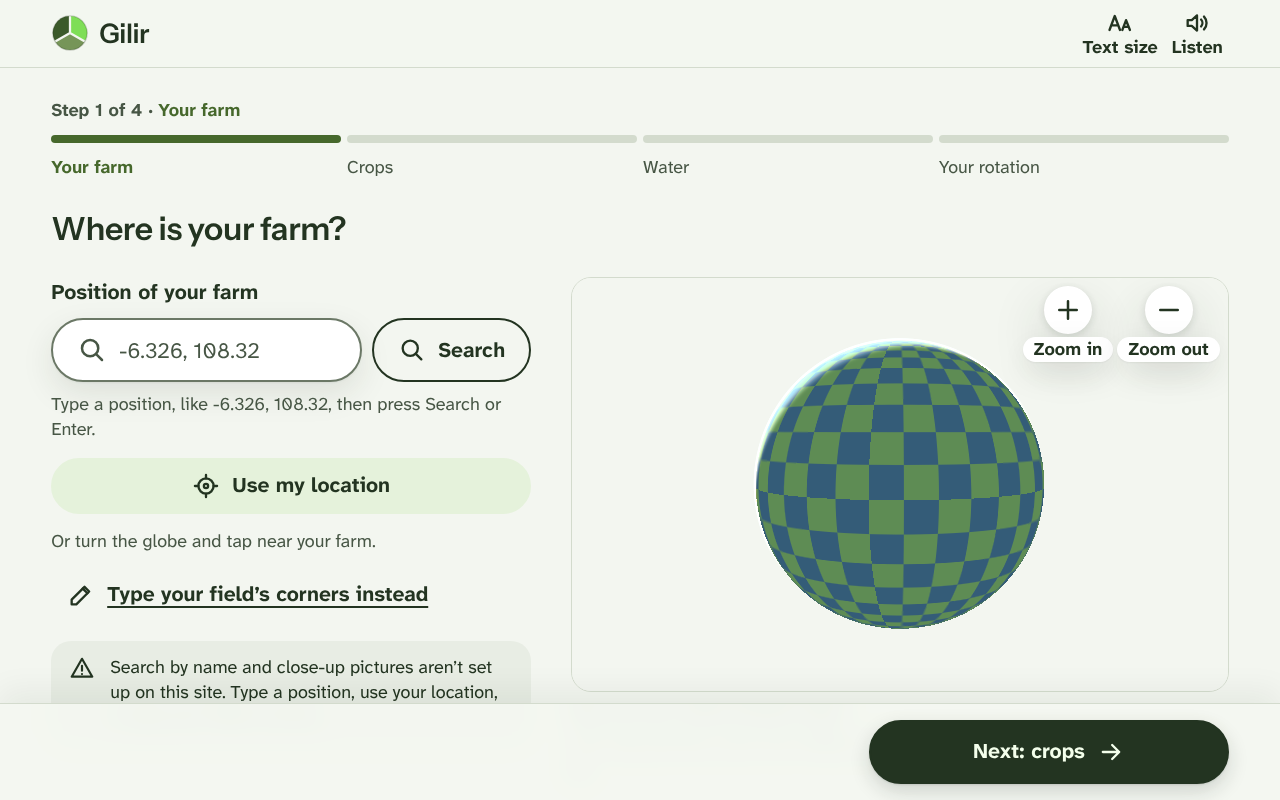
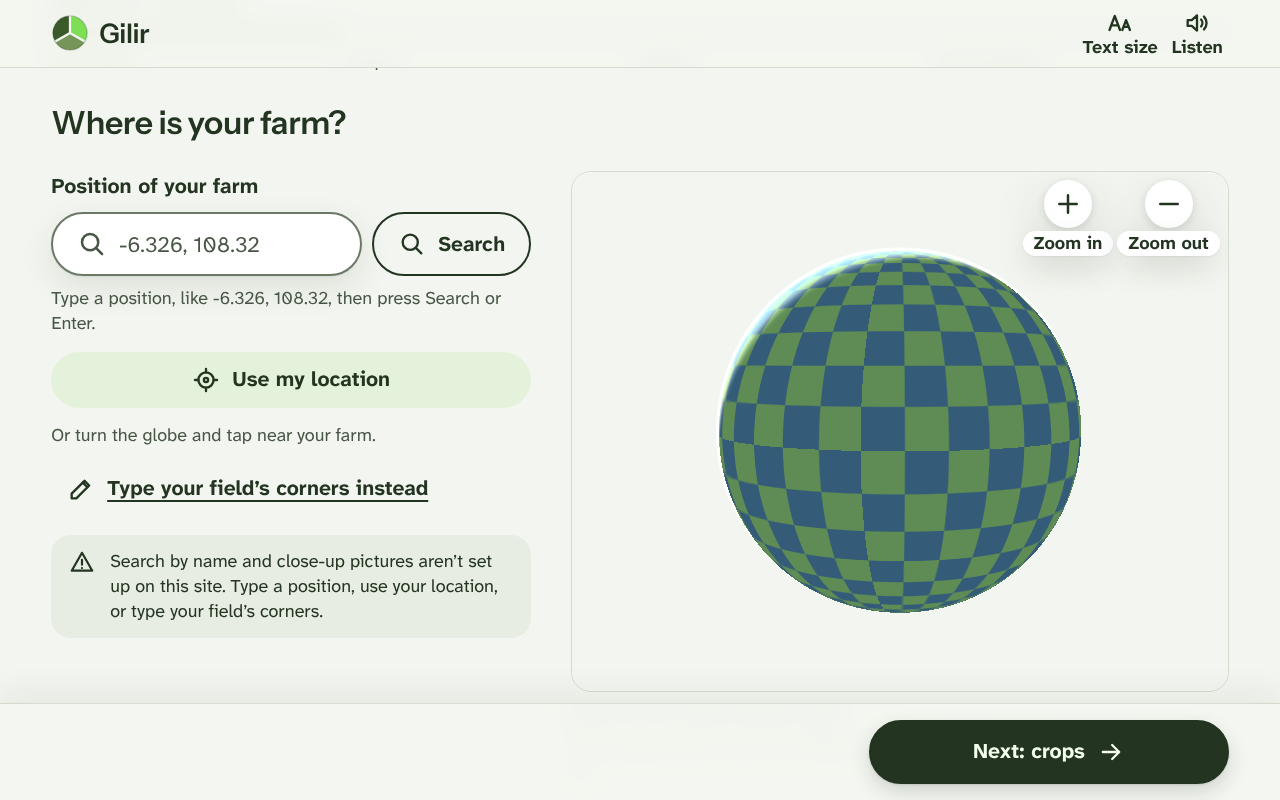
test(F2): re-take the browser evidence after the third review round
The lab and no-WebGL runs now pass 63 cases and the provider run 17.
The new cases cover a phone on its side and a 320x568 phone, a short
two-column window with and without a key, NASA's pictures failing
under working close-ups, and pictures failing after a restored WebGL
context.

Seven screenshots changed because the map's height changed: the
two-column globe and drawing at 1280 px now fill the band above their
credits, and at Largest text on a 360 px phone the map is taller with
a 52 px strip of page below it. The refused-key screenshot was taken
again from its rewritten case. The README gives the new counts, says
what the pictures notice now does, and records how small the map is
on a phone on its side at Largest text.

Claude-Session: https://claude.ai/code/session_01DwR15oMch4WdwGA24XzcK2

diff --git a/docs/evidence/F2/README.md b/docs/evidence/F2/README.md
@@ -43,18 +43,18 @@ Each command ran from the repository root on 15 November 2026, with Node 24 firs
 
 | Key | Command | Observed | Kind |
 | --- | --- | --- | --- |
-| Pl, Pn | `env -u CLAUDECODE -u AI_AGENT -u NEXT_PUBLIC_MAPTILER_KEY PW_CHROMIUM=/opt/pw-browsers/chromium npx playwright test tests/frontend/location/lab.spec.ts tests/frontend/location/no-webgl.spec.ts` | 56 passed in 10.9 minutes. The three strip cases were rerun after they gained a wait for the camera: 3 passed ([fixture-runs.log](fixture-runs.log)) | fixture evidence |
-| Pm | `NEXT_PUBLIC_MAPTILER_KEY=pw-dummy-key env -u CLAUDECODE -u AI_AGENT PW_CHROMIUM=/opt/pw-browsers/chromium npx playwright test tests/frontend/location/provider.spec.ts` | 12 passed in 2.5 minutes ([mocked-runs.log](mocked-runs.log)) | mocked evidence |
+| Pl, Pn | `env -u CLAUDECODE -u AI_AGENT -u NEXT_PUBLIC_MAPTILER_KEY PW_CHROMIUM=/opt/pw-browsers/chromium npx playwright test tests/frontend/location/lab.spec.ts tests/frontend/location/no-webgl.spec.ts` | 63 passed in 10.0 minutes ([fixture-runs.log](fixture-runs.log)) | fixture evidence |
+| Pm | `NEXT_PUBLIC_MAPTILER_KEY=pw-dummy-key env -u CLAUDECODE -u AI_AGENT PW_CHROMIUM=/opt/pw-browsers/chromium npx playwright test tests/frontend/location/provider.spec.ts` | 17 passed in 3.0 minutes ([mocked-runs.log](mocked-runs.log)) | mocked evidence |
 | PL | `env -u CLAUDECODE -u AI_AGENT -u NEXT_PUBLIC_MAPTILER_KEY PW_CHROMIUM=/opt/pw-browsers/chromium npx playwright test tests/frontend/location/live.spec.ts` | 17 skipped, each with the reason "BLOCKED: needs NEXT_PUBLIC_MAPTILER_KEY and network access to api.maptiler.com and gibs.earthdata.nasa.gov" ([live-blocked.log](live-blocked.log)) | **BLOCKED** |
-| V | `npx vitest run tests/frontend/location` | 10 files passed, 272 tests passed, none left as todo. The same with `env -u NEXT_PUBLIC_MAPTILER_KEY`. | component tests |
-| C | `env -u CLAUDECODE -u AI_AGENT npm run check` | exit 0. 71 files passed and 5 skipped. 1,199 tests passed and 29 skipped, none of them in tests/frontend/location. Module boundaries passed. | repository check |
+| V | `npx vitest run tests/frontend/location` | 10 files passed, 274 tests passed, none left as todo. The same with `env -u NEXT_PUBLIC_MAPTILER_KEY`. | component tests |
+| C | `env -u CLAUDECODE -u AI_AGENT npm run check` | exit 0. 71 files passed and 5 skipped. 1,201 tests passed and 29 skipped, none of them in tests/frontend/location. Module boundaries passed. | repository check |
 | B | `env -u CLAUDECODE -u AI_AGENT npm run build` | exit 0. `/` and `/dev/fixtures` prerendered, and the MapLibre worker file was emitted. | production build |
 
 The lab and no-WebGL files skip themselves when a key is set, and the provider file skips unless the key is `pw-dummy-key`. So the fixture runs and the mocked run each need their own dev server.
 
 ## Screenshots
 
-Each screenshot is the viewport at the stated width, with the part under test scrolled into view. Next's development badge is hidden. The tests write them to the Playwright output folder, and they were then copied here. They come from the runs in the logs above, and page-one-largest-marked-360.png from the rerun of the strip cases. A new file inside the project makes `next dev` rebuild and refresh every open page, so the tests never write into this folder while they run. Playwright empties its output folder at the start of each run, so this copy step ran after each one:
+Each screenshot is the viewport at the stated width, with the part under test scrolled into view. Next's development badge is hidden. The tests write them to the Playwright output folder, and they were then copied here. They come from the runs in the logs above. A new file inside the project makes `next dev` rebuild and refresh every open page, so the tests never write into this folder while they run. Playwright empties its output folder at the start of each run, so this copy step ran after each one:
 
 ```sh
 for name in globe-360 globe-1280 lab-normal-360 lab-concave-1280 lab-dateline-360 lab-dateline-1280 page-one-360 \
@@ -80,11 +80,11 @@ done
 | [no-webgl-dateline-360.png](no-webgl-dateline-360.png) | 360x740 | no-webgl [R14][R12][R11] | fixture | WebGL off. The Fiji field typed with the keyboard alone, drawn as one rectangle. |
 | [no-webgl-largest-text-360.png](no-webgl-largest-text-360.png) | 360x740 | no-webgl [R22] | fixture | WebGL off, on F1's page 1 at F1's Largest text. The drawing fits with no sideways scroll. |
 | [page-one-search-answer-largest-360.png](page-one-search-answer-largest-360.png) | 360x740 | lab [R16][R22] answer in view | fixture | Largest text, no key. "-6.326, 200" searched: "Longitude goes from -180 to 180." sits above F1's dock, and the box shows the whole typed position. |
-| [page-one-largest-marked-360.png](page-one-largest-marked-360.png) | 360x740 | lab [R22] strip | fixture | Largest text, a box marked and the map at the top. A strip of page stays between the map and F1's dock, and a swipe there scrolls the page. |
-| [page-one-typing-1280.png](page-one-typing-1280.png), [no-webgl-typing-1280.png](no-webgl-typing-1280.png) | 1280x800 | lab and no-webgl [R22] two columns | fixture | Corner 3's latitude being typed. The globe, and with WebGL off the drawing, stay in view on the right. The drawing has no map picture credit. |
+| [page-one-largest-marked-360.png](page-one-largest-marked-360.png) | 360x740 | lab [R22] strip | fixture | Largest text, a box marked and the map at the top. A strip of page about 52 px tall stays between the map and F1's dock, and a swipe there scrolls the page. |
+| [page-one-typing-1280.png](page-one-typing-1280.png), [no-webgl-typing-1280.png](no-webgl-typing-1280.png) | 1280x800 | lab and no-webgl [R22] two columns | fixture | Corner 3's latitude being typed. The globe with its credit and privacy lines, and with WebGL off the drawing, stay in view on the right above F1's dock. The drawing has no map picture credit. |
 | [provider-indramayu-box-360.png](provider-indramayu-box-360.png) | 360x740 | provider [R3] | mocked | A canned "Indramayu" answer chosen and "Mark my field" pressed. A 1 hectare box over the synthetic MapTiler tiles. |
 | [provider-credits-360.png](provider-credits-360.png) | 360x740 | provider [R5] | mocked | The credits line names NASA EOSDIS GIBS, © MapTiler and © OpenStreetMap contributors, without a press. |
-| [provider-close-ups-refused-360.png](provider-close-ups-refused-360.png) | 360x740 | provider [R16] refused key | mocked | NASA's pictures answer and MapTiler's are refused, as with a bad key. After a field is marked from the world view, "The map pictures didn’t load. …" still shows. |
+| [provider-close-ups-refused-360.png](provider-close-ups-refused-360.png) | 360x740 | provider [R16] refused key | mocked | NASA's pictures answer and MapTiler's are refused, as with a bad key. The world view showed NASA's pictures with no notice. On the field marked from there, "The map pictures didn’t load. …" shows. |
 
 No trace, video or HAR file is kept. No file here holds a key. The only key in any of these files is the dummy `pw-dummy-key`, in one test name in mocked-runs.log.
 
@@ -100,8 +100,8 @@ No trace, video or HAR file is kept. No file here holds a key. The only key in a
 These cases support the live criterion but never pass it, as the card says.
 
 - **Fixture.** lab [R3] turns the globe by dragging, and zooms by mouse and by keyboard, over the synthetic tiles. Another lab [R3] case clicks in space beside the sphere: no place is chosen and a marked box stays put, while a click on the sphere still does both. lab [R22] checks that each next step is in view on F1's page 1, and that at Large and Largest text the map stays at least 480 px wide with no corner handle under a zoom button. lab [R7] and [R7][R12] drag corners, add a corner and make a concave field. lab [R7] puts back a corner dragged across a side. lab [R15][R22] edits a corner with Tab alone. no-webgl shows the drawing, its explanation and the corner list.
-- **Fixture, from the review's fixes.** lab [R14] keeps the globe when MapLibre restarts its busy workers on a return to the foreground, and when a lost WebGL context comes back. A context that stays lost becomes the drawing after a short wait, and focus on "Zoom in" moves to the corner list's heading. lab and no-webgl [R22] keep the map in view in two columns while corner 3 is typed. lab [R22] leaves a strip at least 48 px tall between the map and F1's dock at Normal, Large and Largest text, and a touch swipe there scrolls the page. lab [R16][R22] brings the answer to Search into view above F1's dock. lab [R20][R22] shows a whole typed position in the search box at Large and Largest text.
-- **Mocked.** provider [R6] shows that typing sends nothing and Enter sends exactly one search. provider [R16] covers each search failure: refused (403), busy (429), no answer, past the time limit and no place found. Each shows its own words, and a typed position still marks a field afterwards. provider [R16] also refuses MapTiler alone, as with a bad key, and the pictures notice still shows on a field marked from the world view. provider [R16][R22] brings the places found and a failed search into view above F1's dock. provider [R25] shows that no request carries a coordinate of the field.
+- **Fixture, from the review's fixes.** lab [R14] keeps the globe when MapLibre restarts its busy workers on a return to the foreground, and when a lost WebGL context comes back. A context that stays lost becomes the drawing after a short wait, and focus on "Zoom in" moves to the corner list's heading. lab and no-webgl [R22] keep the map in view in two columns while corner 3 is typed, and lab [R22][R5] keeps the map with its credit and privacy lines between F1's bars at 1280x800 and 1280x600. lab [R22] leaves a strip at least 48 px tall between the map and F1's dock at Normal, Large and Largest text on a 360x740 phone, a 320x568 phone and a 740x360 phone on its side, and a touch swipe there scrolls the page. On its side at Largest text that leaves a map 73 px tall. lab [R16][R22] brings the answer to Search into view above F1's dock. lab [R20][R22] shows a whole typed position in the search box at Large and Largest text.
+- **Mocked.** provider [R6] shows that typing sends nothing and Enter sends exactly one search. provider [R16] covers each search failure: refused (403), busy (429), no answer, past the time limit and no place found. Each shows its own words, and a typed position still marks a field afterwards. provider [R16] also refuses MapTiler alone, as with a bad key: the world view shows NASA's pictures with no notice, and the pictures notice shows on the marked field. With NASA refused and MapTiler answering, the notice shows at the world view and goes once the field's close-ups show. provider [R14][R16] shows the notice when the pictures fail after a lost WebGL context comes back. provider [R16][R22] brings the places found and a failed search into view above F1's dock. provider [R22][R5] keeps the map with the NASA and MapTiler credits and the privacy line between F1's bars in two columns at 1280x720 Normal and Large and at 1280x800 Large. provider [R25] shows that no request carries a coordinate of the field.
 
 The field also reaches F1. lab [R23] marks a U field on F1's page 1 at `/`. "Next: crops" opens page 2, and Back shows the same field from F1's draft. After a reload that hands the field back to F1 as its initial input, the same corners and lookup show again. A reload through saved answers is **NOT RUN**: local storage belongs to F4 and is not built yet, and `localPlans.load` throws on this branch.
 
@@ -127,3 +127,4 @@ Each case below runs at 360 and 1280 px, except the last, which runs at 360 px. 
 - "Use my location" has jsdom tests only. No browser here gave a position.
 - The tile and search stand-ins follow the shapes provider.ts reads. They say nothing about what MapTiler or NASA really send. Until live cases 7 and 8 run, the satellite TileJSON path, its tile size and its attribution text in provider.ts are unverified.
 - The corner inputs ask for the full keyboard, because the iPhone decimal pad has no minus sign. No real iPhone was available to see it.
+- On a phone on its side (740x360) F1's bars leave a band of 195, 166 and 137 px at Normal, Large and Largest text. To keep a strip of page to scroll by, the map is 131, 102 and 73 px tall there, too small to drag corners at Largest. The corner list still works, and so does holding the phone upright.
